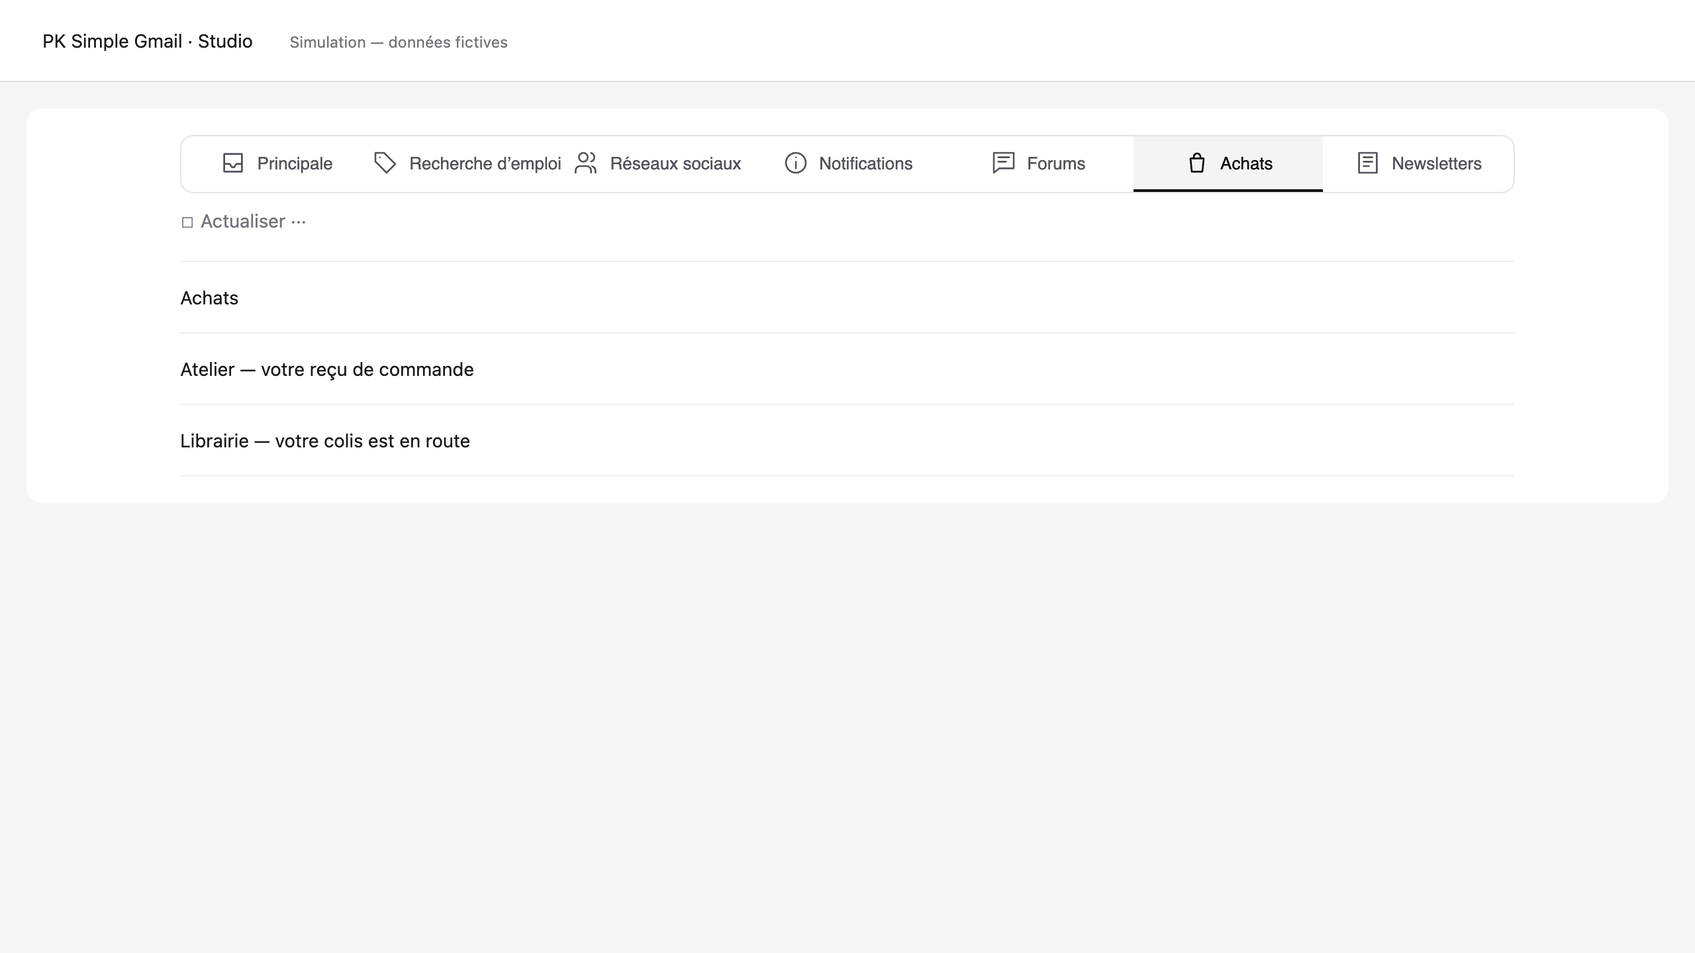
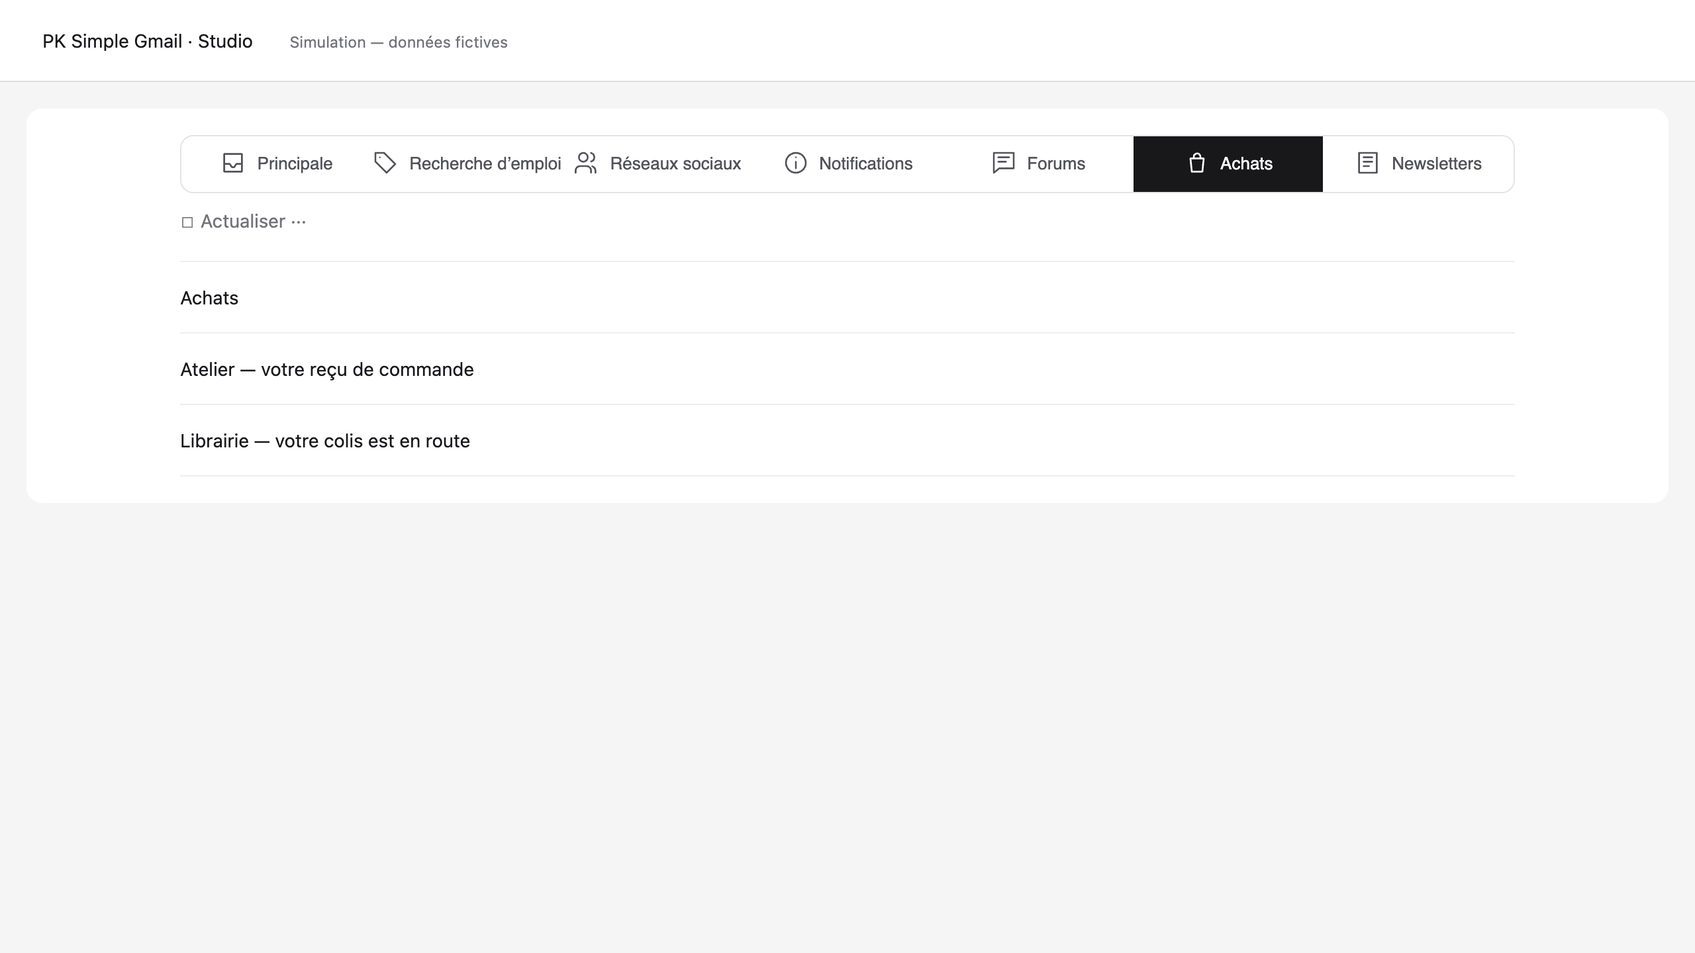
FIX: onglet actif lisible et toujours visible dans la barre

Changed region(s): [[0.6562, 0.125, 0.7812, 0.2188]]

diff --git a/src/extension-pk/data/manifest.js b/src/extension-pk/data/manifest.js
@@ -11,7 +11,7 @@ self.LAB_ITEMS = [
     "type": "js",
     "world": "ISOLATED",
     "runAt": "document_end",
-    "version": "2026.10.100",
+    "version": "2026.10.101",
     "status": "new"
   },
   {
@@ -22,7 +22,7 @@ self.LAB_ITEMS = [
     "type": "js",
     "world": "ISOLATED",
     "runAt": "document_end",
-    "version": "2026.10.100",
+    "version": "2026.10.101",
     "status": "new",
     "setting": "toast-seconds"
   },
@@ -42,7 +42,7 @@ self.LAB_ITEMS = [
     "type": "js",
     "world": "ISOLATED",
     "runAt": "document_end",
-    "version": "2026.10.100",
+    "version": "2026.10.101",
     "status": "new"
   },
   {
@@ -51,7 +51,7 @@ self.LAB_ITEMS = [
     "label": "Toast redesign · centré bas, pilule sombre (Annuler cliquable)",
     "file": "tweaks/toast-center.css",
     "type": "css",
-    "version": "2026.10.100",
+    "version": "2026.10.101",
     "status": "new"
   },
   {
@@ -60,7 +60,7 @@ self.LAB_ITEMS = [
     "label": "Sidebar · Nouveau message à la largeur des dossiers",
     "file": "tweaks/sidebar-composer.css",
     "type": "css",
-    "version": "2026.10.100",
+    "version": "2026.10.101",
     "status": "new"
   },
   {
@@ -69,7 +69,7 @@ self.LAB_ITEMS = [
     "label": "Sidebar · niveaux de gris (libellés préservés)",
     "file": "tweaks/sidebar-gray.css",
     "type": "css",
-    "version": "2026.10.100",
+    "version": "2026.10.101",
     "status": "new"
   },
   {
@@ -80,7 +80,7 @@ self.LAB_ITEMS = [
     "type": "js",
     "world": "ISOLATED",
     "runAt": "document_end",
-    "version": "2026.10.100",
+    "version": "2026.10.101",
     "status": "new",
     "setting": "category-labels"
   },
@@ -92,7 +92,7 @@ self.LAB_ITEMS = [
     "type": "js",
     "world": "ISOLATED",
     "runAt": "document_end",
-    "version": "2026.10.100",
+    "version": "2026.10.101",
     "status": "new",
     "setting": "label-tabs"
   },
@@ -105,7 +105,7 @@ self.LAB_ITEMS = [
       "https://calendar.google.com/*"
     ],
     "type": "css",
-    "version": "2026.10.100",
+    "version": "2026.10.101",
     "status": "new"
   },
   {
@@ -117,7 +117,7 @@ self.LAB_ITEMS = [
       "https://drive.google.com/*"
     ],
     "type": "css",
-    "version": "2026.10.100",
+    "version": "2026.10.101",
     "status": "new"
   },
   {
@@ -126,7 +126,7 @@ self.LAB_ITEMS = [
     "label": "Composer · « Nouveau message » noir plein",
     "file": "themes/studio/compose.css",
     "type": "css",
-    "version": "2026.10.100",
+    "version": "2026.10.101",
     "status": "new"
   },
   {
@@ -135,7 +135,7 @@ self.LAB_ITEMS = [
     "label": "WhiteStyle · padding des lignes",
     "file": "tweaks/white-style.css",
     "type": "css",
-    "version": "2026.10.100",
+    "version": "2026.10.101",
     "status": "ok"
   },
   {
@@ -144,7 +144,7 @@ self.LAB_ITEMS = [
     "label": "BackgroundWhite · fond blanc + police fine",
     "file": "tweaks/background-white.css",
     "type": "css",
-    "version": "2026.10.100",
+    "version": "2026.10.101",
     "status": "ok"
   },
   {
@@ -153,7 +153,7 @@ self.LAB_ITEMS = [
     "label": "Barre supérieure en niveaux de gris",
     "file": "tweaks/grayscale-bar.css",
     "type": "css",
-    "version": "2026.10.100",
+    "version": "2026.10.101",
     "status": "ok"
   },
   {
@@ -162,7 +162,7 @@ self.LAB_ITEMS = [
     "label": "ScrollBarGrey · scrollbar fine grise",
     "file": "tweaks/scrollbar-grey.css",
     "type": "css",
-    "version": "2026.10.100",
+    "version": "2026.10.101",
     "status": "ok"
   },
   {
@@ -193,7 +193,7 @@ self.LAB_ITEMS = [
     "label": "NoLeftMenu · menu latéral masqué",
     "file": "tweaks/no-left-menu.css",
     "type": "css",
-    "version": "2026.10.100",
+    "version": "2026.10.101",
     "status": "ok"
   },
   {
@@ -202,7 +202,7 @@ self.LAB_ITEMS = [
     "label": "Statut · masquer Actif/absent (à côté des réglages)",
     "file": "tweaks/status-pill.css",
     "type": "css",
-    "version": "2026.10.100",
+    "version": "2026.10.101",
     "status": "ok"
   },
   {
@@ -211,7 +211,7 @@ self.LAB_ITEMS = [
     "label": "TopRight v3 · aide/notifications masqués (bouton apps conservé)",
     "file": "tweaks/top-right.css",
     "type": "css",
-    "version": "2026.10.100",
+    "version": "2026.10.101",
     "status": "ok"
   },
   {
@@ -242,7 +242,7 @@ self.LAB_ITEMS = [
     "label": "UnreadColor · non-lus gris",
     "file": "tweaks/unread-color.css",
     "type": "css",
-    "version": "2026.10.100",
+    "version": "2026.10.101",
     "status": "ok"
   },
   {
@@ -251,7 +251,7 @@ self.LAB_ITEMS = [
     "label": "SearchBar · recherche centrée blanche",
     "file": "tweaks/searchbar.css",
     "type": "css",
-    "version": "2026.10.100",
+    "version": "2026.10.101",
     "status": "ok"
   },
   {
@@ -260,7 +260,7 @@ self.LAB_ITEMS = [
     "label": "StickyTopic · sujet épinglé en haut",
     "file": "tweaks/sticky-topic.css",
     "type": "css",
-    "version": "2026.10.100",
+    "version": "2026.10.101",
     "status": "ok"
   },
   {
@@ -269,7 +269,7 @@ self.LAB_ITEMS = [
     "label": "StarsFocus · ligne étoilée surlignée (jaune)",
     "file": "tweaks/stars-focus.css",
     "type": "css",
-    "version": "2026.10.100",
+    "version": "2026.10.101",
     "status": "ok"
   },
   {
@@ -278,7 +278,7 @@ self.LAB_ITEMS = [
     "label": "Masquer outils de saisie (v3 : Envoyer préservé)",
     "file": "tweaks/compose-toolbar.css",
     "type": "css",
-    "version": "2026.10.100",
+    "version": "2026.10.101",
     "status": "ok"
   },
   {
@@ -287,7 +287,7 @@ self.LAB_ITEMS = [
     "label": "Masquer volet de lecture (v3 : Envoyer préservé)",
     "file": "tweaks/reading-pane-btn.css",
     "type": "css",
-    "version": "2026.10.100",
+    "version": "2026.10.101",
     "status": "ok"
   },
   {
@@ -296,7 +296,7 @@ self.LAB_ITEMS = [
     "label": "Margin · colonne centrée (marges en %)",
     "file": "tweaks/margin.css",
     "type": "css",
-    "version": "2026.10.100",
+    "version": "2026.10.101",
     "status": "ok",
     "setting": "margin-pct"
   },
@@ -328,7 +328,7 @@ self.LAB_ITEMS = [
     "label": "Theme · PK Web Memory (à alléger — trop de bordures)",
     "file": "tweaks/theme-pkweb.css",
     "type": "css",
-    "version": "2026.10.100",
+    "version": "2026.10.101",
     "status": "ko"
   },
   {
@@ -337,7 +337,7 @@ self.LAB_ITEMS = [
     "label": "Header auto-hide v4 · header effacé au scroll (mise en page stable)",
     "file": "tweaks/header-autohide.css",
     "type": "css",
-    "version": "2026.10.100",
+    "version": "2026.10.101",
     "status": "ko"
   },
   {

diff --git a/src/extension-pk/themes/studio/label-tabs.js b/src/extension-pk/themes/studio/label-tabs.js
@@ -55,8 +55,10 @@
     #pk-studio-tabs{display:flex!important;align-items:stretch;gap:0;box-sizing:border-box;width:100%;min-width:0;max-width:100%;height:44px;flex:none;overflow-x:auto;overflow-y:hidden;margin:0 0 12px;padding:0;border:1px solid #e4e4e7;border-radius:10px;background:#fff;scrollbar-width:thin;color:#52525b}
     #pk-studio-tabs .pk-studio-tab{appearance:none;box-sizing:border-box;display:flex;align-items:center;justify-content:center;gap:8px;flex:1 1 0;min-width:0;max-width:none;height:42px;margin:0;padding:0 12px;border:0;border-bottom:2px solid transparent;border-radius:0;background:transparent;color:inherit;font:500 13px -apple-system,"Segoe UI",Roboto,sans-serif;white-space:nowrap;cursor:pointer}
     #pk-studio-tabs .pk-studio-tab:hover{background:#f4f4f5;color:#18181b}
-    #pk-studio-tabs .pk-studio-tab[aria-selected="true"]{background:#f4f4f5;color:#09090b;border-bottom-color:#09090b}
+    #pk-studio-tabs .pk-studio-tab[aria-selected="true"]{background:#18181b;color:#fff;border-bottom-color:transparent}
+    #pk-studio-tabs .pk-studio-tab[aria-selected="true"]:hover{background:#18181b;color:#fff}
     #pk-studio-tabs .pk-studio-tab:focus-visible{outline:2px solid #18181b;outline-offset:-4px}
+    #pk-studio-tabs .pk-studio-tab[aria-selected="true"]:focus-visible{outline-color:#fff}
     #pk-studio-tabs svg{display:block;width:20px;height:20px;flex:none;fill:none;stroke:currentColor;stroke-width:1.6;stroke-linecap:round;stroke-linejoin:round}
     #pk-studio-tabs .pk-studio-tab-text{display:block;flex:none}
     #pk-studio-tabs[data-compact] .pk-studio-tab{flex:0 0 28px;width:28px;min-width:28px;padding:0 4px;gap:0}
@@ -78,6 +80,15 @@
       ['purchases', /^(achats?|purchases?)$/], ['newsletter', /^newsletters?$/],
     ];
     return matchers.find(([, pattern]) => pattern.test(name))?.[0] || '';
+  }
+
+  // Gmail rewrites search hashes with `+` for spaces (and may reorder terms),
+  // so a strict route comparison loses the selected tab after navigation.
+  function categoryFromSearch(value) {
+    const match = value.match(/^#search\/(.+)$/);
+    if (!match) return '';
+    const id = match[1].replace(/\+/g, ' ').match(/(?:^|\s)category:([a-z]+)(?:\s|$)/i)?.[1];
+    return id && NAMES[id] ? id : '';
   }
 
   function nativeLists() {
@@ -141,7 +152,20 @@
       return context.measureText(button.getAttribute('aria-label')).width + 20 + 8 + 24;
     });
     const compact = widths.reduce((total, width) => total + width, 0) > strip.clientWidth;
-    if (strip.hasAttribute('data-compact') !== compact) strip.toggleAttribute('data-compact', compact);
+    if (strip.hasAttribute('data-compact') !== compact) {
+      strip.toggleAttribute('data-compact', compact);
+      revealButton([...buttons.values()].find(button => button.getAttribute('aria-selected') === 'true'));
+    }
+  }
+
+  // Keep the active tab visible when the strip scrolls horizontally.
+  let lastSelected = '';
+  function revealButton(button) {
+    if (!button || !strip.isConnected || strip.scrollWidth <= strip.clientWidth) return;
+    const view = strip.getBoundingClientRect();
+    const rect = button.getBoundingClientRect();
+    if (rect.left < view.left) strip.scrollLeft -= view.left - rect.left;
+    else if (rect.right > view.right) strip.scrollLeft += rect.right - view.right;
   }
   const observer = typeof ResizeObserver === 'function' ? new ResizeObserver(resize) : null;
   observer?.observe(strip);
@@ -223,6 +247,9 @@
       });
     }
     const current = hash();
+    // Gmail writes spaces as `+` in hashes (search and label paths).
+    const canonical = value => value.replace(/\+/g, ' ');
+    const currentKey = canonical(current);
     // Gmail's native category views are the same buckets as the inbox searches.
     const aliases = {
       purchases: ['#purchases', '#category/purchases'],
@@ -231,9 +258,14 @@
     };
     let selected = [...items].sort((a, b) => b.route.length - a.route.length)
       .find(item => {
-        const route = decode(item.route);
-        return current === route || current.startsWith(`${route}/`) || (aliases[item.key] || []).includes(current);
+        const route = canonical(decode(item.route));
+        return currentKey === route || currentKey.startsWith(`${route}/`)
+          || (aliases[item.key] || []).some(alias => canonical(alias) === currentKey);
       })?.key;
+    if (!selected) {
+      const fromSearch = categoryFromSearch(current);
+      selected = items.some(item => item.key === fromSearch) ? fromSearch : '';
+    }
     // Gmail can change the native category without changing #inbox.
     if (current === '#inbox' && !pendingPrimary) {
       const native = lists.flatMap(list => [...list.querySelectorAll('[role="tab"][aria-selected="true"], [role="tab"].J-KU-KO')]);
@@ -242,6 +274,11 @@
     for (const [key, button] of buttons) {
       attr(button, 'aria-selected', String(key === selected));
       attr(button, 'tabindex', key === (selected || items[0]?.key) ? '0' : '-1');
+    }
+    if (!selected) lastSelected = '';
+    else if (selected !== lastSelected) {
+      lastSelected = selected;
+      revealButton(buttons.get(selected));
     }
     resize();
   }

diff --git a/store/index.html b/store/index.html
@@ -75,7 +75,7 @@
       </div>
     </div></section>
     <section id="studio-tabs"><div class="section-inner">
-      <p class="section-label"><span data-locale="fr">Studio · build locale 2026.10.100</span><span data-locale="en">Studio · local build 2026.10.100</span></p>
+      <p class="section-label"><span data-locale="fr">Studio · build locale 2026.10.101</span><span data-locale="en">Studio · local build 2026.10.101</span></p>
       <h2 class="section-title"><span data-locale="fr">Achats, à sa place.</span><span data-locale="en">Purchases, in its place.</span></h2>
       <p class="section-intro"><span data-locale="fr">Une barre commune aux catégories et aux libellés, calée sur la largeur de la colonne des mails (elle suit le réglage des marges). Chaque catégorie ouvre <code>in:inbox category:&lt;id&gt;</code> : archiver un message le retire de la vue. « Achats » utilise <code>category:purchases</code>, même sans onglet Gmail. Quand la place manque : icône seule et 4 px de padding de chaque côté. Tests locaux validés ; vérification Gmail authentifié encore en attente. Cette build n’est pas dans le téléchargement ci-dessous.</span><span data-locale="en">One shared strip for categories and labels, fitted to the mail column width (it follows the margin setting). Each category opens <code>in:inbox category:&lt;id&gt;</code>: archiving a message removes it from the view. “Purchases” uses <code>category:purchases</code>, even without a Gmail tab. When space runs short: icon only, with 4 px padding on each side. Local tests passed; authenticated Gmail verification is pending. This build is not included in the download below.</span></p>
       <figure class="comparison"><img src="screenshots/studio-tabs-desktop.png" width="2560" height="1440" loading="lazy" alt="" style="display:block;width:100%;height:auto"><figcaption class="comparison-note"><span data-locale="fr">Simulation avec le module réel et des courriels fictifs. <a href="screenshots/studio-tabs-compact.png">Voir les icônes compactes.</a></span><span data-locale="en">Simulation using the real module and fictional emails. <a href="screenshots/studio-tabs-compact.png">View compact icons.</a></span></figcaption></figure>

diff --git a/README.md b/README.md
@@ -6,7 +6,7 @@
 
 Client mail IMAP immersif — backend Python FastAPI + interface HTML/JS vanilla. Packagé en application native (macOS · Windows · Linux).
 
-**Version locale 2026.10.100** — [Changelog](CHANGELOG.md)
+**Version locale 2026.10.101** — [Changelog](CHANGELOG.md)
 
 [![Aperçu de l’extension Gmail](store/screenshots/05-ocean.png)](store/index.html)
 [![Réglages de l’extension Gmail](store/screenshots/02-reglages.png)](store/index.html)
@@ -43,7 +43,7 @@ Client mail IMAP immersif — backend Python FastAPI + interface HTML/JS vanilla
 - **PWA + Chrome en local** : installable depuis `127.0.0.1:8000`, extension sans permission sensible ; Android en pause
 
 ### Extension Chrome — PK Simple Gmail
-- **Onglets Studio (build locale)** : une barre commune, calée sur la largeur de la colonne des mails (elle suit le réglage des marges), réunit les catégories Gmail — ouvertes par la recherche `in:inbox category:<id>`, dont « Achats » (`category:purchases`, même quand Gmail ne lui donne pas d'onglet), donc les messages non archivés — et les libellés configurés, avec noms et ordre stables entre les vues. À largeur réduite : icône de 20 px + 4 px de padding par côté, boutons de 28 px et infobulles. Flèches pour déplacer le focus, Entrée/Espace pour ouvrir. [Aperçu bureau](store/screenshots/studio-tabs-desktop.png) · [aperçu compact](store/screenshots/studio-tabs-compact.png) : simulations exécutant le module réel ; validation sur Gmail authentifié en attente de reconnexion.
+- **Onglets Studio (build locale)** : une barre commune, calée sur la largeur de la colonne des mails (elle suit le réglage des marges), réunit les catégories Gmail — ouvertes par la recherche `in:inbox category:<id>`, dont « Achats » (`category:purchases`, même quand Gmail ne lui donne pas d'onglet), donc les messages non archivés — et les libellés configurés, avec noms et ordre stables entre les vues. L'onglet actif est un segment noir plein, et la barre le ramène automatiquement dans la vue quand elle défile. À largeur réduite : icône de 20 px + 4 px de padding par côté, boutons de 28 px et infobulles. Flèches pour déplacer le focus, Entrée/Espace pour ouvrir. [Aperçu bureau](store/screenshots/studio-tabs-desktop.png) · [aperçu compact](store/screenshots/studio-tabs-compact.png) : simulations exécutant le module réel ; validation sur Gmail authentifié en attente de reconnexion.
 - **Chrome Web Store** : [PK Simple Gmail](https://chromewebstore.google.com/detail/pk-simple-gmail/kijhhekofbbmdgnheepmjcenehmgepgl) — version publique 2026.10.56, mise à jour 2026.10.73 soumise à examen.
 - **PK Simple Gmail** : l'extension canonique, avec panneau latéral et six thèmes — *Natif*, *Studio* (36 tweaks cochables, dont « Boîte à zéro » : un pictogramme monochrome animé propre à chaque catégorie vide, « Annuler préservé », le renommage des onglets de catégories, « Mail / Google Agenda complet » avec bascule à triple logo (Mail, Agenda, Drive) dans l'en-tête et Agenda aux accents noirs), *Simplify* (fonds photo, boîte vide et volet de lecture), *Classique*, **Focus** (liste mono de 900 px, catégories en icônes, lignes de 35 px, sélection noire et raccourcis) et **Original** (rail de 64 px, recherche large, composer noir, liste aérée). Les autres concepts du Lab restent à transposer.
 - **Mail / Agenda / Drive (Studio)** : la bascule à triple logo (Gmail + Agenda + Drive) remplace le logo dans la barre supérieure, sur les trois sites ; le segment actif est blanc. Elle ouvre le vrai Google Agenda et le vrai Drive dans le même onglet et la même fenêtre, avec création d'événements, vues et paramètres natifs, et le vrai Drive sur « Mon Drive » du compte actif ; Agenda et Drive reprennent les accents Studio (boutons noirs, jour courant noir, couleurs des calendriers, des événements et des fichiers conservées). Le bouton Mail ramène à la boîte de réception du compte actif (le logo Gmail, même actif, aussi). Chaque bascule charge la page Google correspondante. Activer « Modules · Mail / Google Agenda / Drive complet, même onglet » et autoriser `calendar.google.com` et `drive.google.com` lors de la mise à jour de l'extension.

diff --git a/README_en.md b/README_en.md
@@ -6,7 +6,7 @@
 
 Immersive IMAP mail client — Python FastAPI backend + vanilla HTML/JS. Packaged as native desktop app (macOS · Windows · Linux).
 
-**Local version 2026.10.100** — [Changelog](CHANGELOG.md)
+**Local version 2026.10.101** — [Changelog](CHANGELOG.md)
 
 [![Gmail extension preview](store/screenshots/05-ocean.png)](store/index.html)
 [![Gmail extension settings](store/screenshots/02-reglages.png)](store/index.html)
@@ -43,7 +43,7 @@ Immersive IMAP mail client — Python FastAPI backend + vanilla HTML/JS. Package
 - **Local PWA + Chrome**: installable from `127.0.0.1:8000`, permission-free extension; Android is paused
 
 ### Chrome extension — PK Simple Gmail
-- **Studio tabs (local build)**: one shared strip, fitted to the mail column width (it follows the margin setting), gathers Gmail categories — opened through the `in:inbox category:<id>` search, including “Purchases” (`category:purchases`, even when Gmail gives it no tab), i.e. non-archived messages — and configured labels, with stable names and order across views. At narrow widths: a 20 px icon + 4 px padding on each side, 28 px buttons and tooltips. Arrow keys move focus; Enter/Space opens the tab. [Desktop preview](store/screenshots/studio-tabs-desktop.png) · [compact preview](store/screenshots/studio-tabs-compact.png): simulations running the actual module; authenticated Gmail verification awaits sign-in.
+- **Studio tabs (local build)**: one shared strip, fitted to the mail column width (it follows the margin setting), gathers Gmail categories — opened through the `in:inbox category:<id>` search, including “Purchases” (`category:purchases`, even when Gmail gives it no tab), i.e. non-archived messages — and configured labels, with stable names and order across views. The active tab is a solid black segment, and the strip scrolls it back into view. At narrow widths: a 20 px icon + 4 px padding on each side, 28 px buttons and tooltips. Arrow keys move focus; Enter/Space opens the tab. [Desktop preview](store/screenshots/studio-tabs-desktop.png) · [compact preview](store/screenshots/studio-tabs-compact.png): simulations running the actual module; authenticated Gmail verification awaits sign-in.
 - **Chrome Web Store**: [PK Simple Gmail](https://chromewebstore.google.com/detail/pk-simple-gmail/kijhhekofbbmdgnheepmjcenehmgepgl) — public version 2026.10.56, update 2026.10.73 submitted for review.
 - **PK Simple Gmail**: the canonical extension, with a side panel and six themes — *Natif*, *Studio* (36 toggleable tweaks, including “Inbox zero” with a distinct animated monochrome icon for each empty category, “Undo preserved”, category tab renaming, “Mail / full Google Calendar” with a triple-logo header switch (Mail, Calendar, Drive) and black Calendar accents), *Simplify* (photo backgrounds, inbox zero and reading pane), *Classique*, **Focus** (900 px monospace list, category icons, 35 px rows, black selection and keyboard shortcuts) and **Original** (64 px rail, wide search, black composer, airy list). The other Lab concepts still await transposition.
 - **Mail / Calendar / Drive (Studio)**: the triple-logo switch (Gmail + Calendar + Drive) replaces the logo in the top bar on all three sites; the active segment is white. It opens the real Google Calendar and Drive in the same tab and the same window, with native event creation, views and settings, and the real Drive on the active account's My Drive; Calendar and Drive pick up the Studio accents (black buttons, black today marker, calendar, event and file colours preserved). Mail returns to the inbox of the active account (the Gmail mark does too, even when it is active). Each switch loads the corresponding Google page. Enable “Modules · Mail / Google Agenda / Drive complet, même onglet” and allow `calendar.google.com` and `drive.google.com` when updating the extension.

diff --git a/src/extension-pk/README.md b/src/extension-pk/README.md
@@ -56,6 +56,8 @@ de réception apparaissent, donc archiver un message le retire de l'onglet.
 **Achats** utilise `category:purchases`, même quand Gmail ne lui donne pas d'onglet,
 et reste présent même sans libellé configuré. Aucun libellé n'est ouvert par défaut.
 La barre se cale sur la largeur de la colonne des mails et suit le réglage des marges.
+L'onglet actif est un segment noir plein ; en mode icônes, la barre le ramène
+automatiquement dans la zone visible.
 Les catégories sont mémorisées dans la session par compte/langue : visiter la
 boîte de réception une première fois pour découvrir les catégories activées.
 La barre reste présente au changement de vue. Les noms renommés sont repris.

diff --git a/CHANGELOG.md b/CHANGELOG.md
@@ -4,6 +4,12 @@ Historique des versions de SimpleMail.
 
 ## Releases
 
+## [2026.10.101] - 2026-10-29
+
+### Fixed
+- **Onglet actif lisible** : la sélection devient un segment noir plein avec texte et icône blancs, au lieu du fond gris discret. L'onglet reste sélectionné quand Gmail réécrit l'URL de recherche avec `+` à la place des espaces.
+- **Barre défilante** : l'onglet actif est automatiquement ramené dans la zone visible quand la barre passe en mode icônes ou change de largeur.
+
 ## [2026.10.100] - 2026-10-28
 
 ### Fixed
